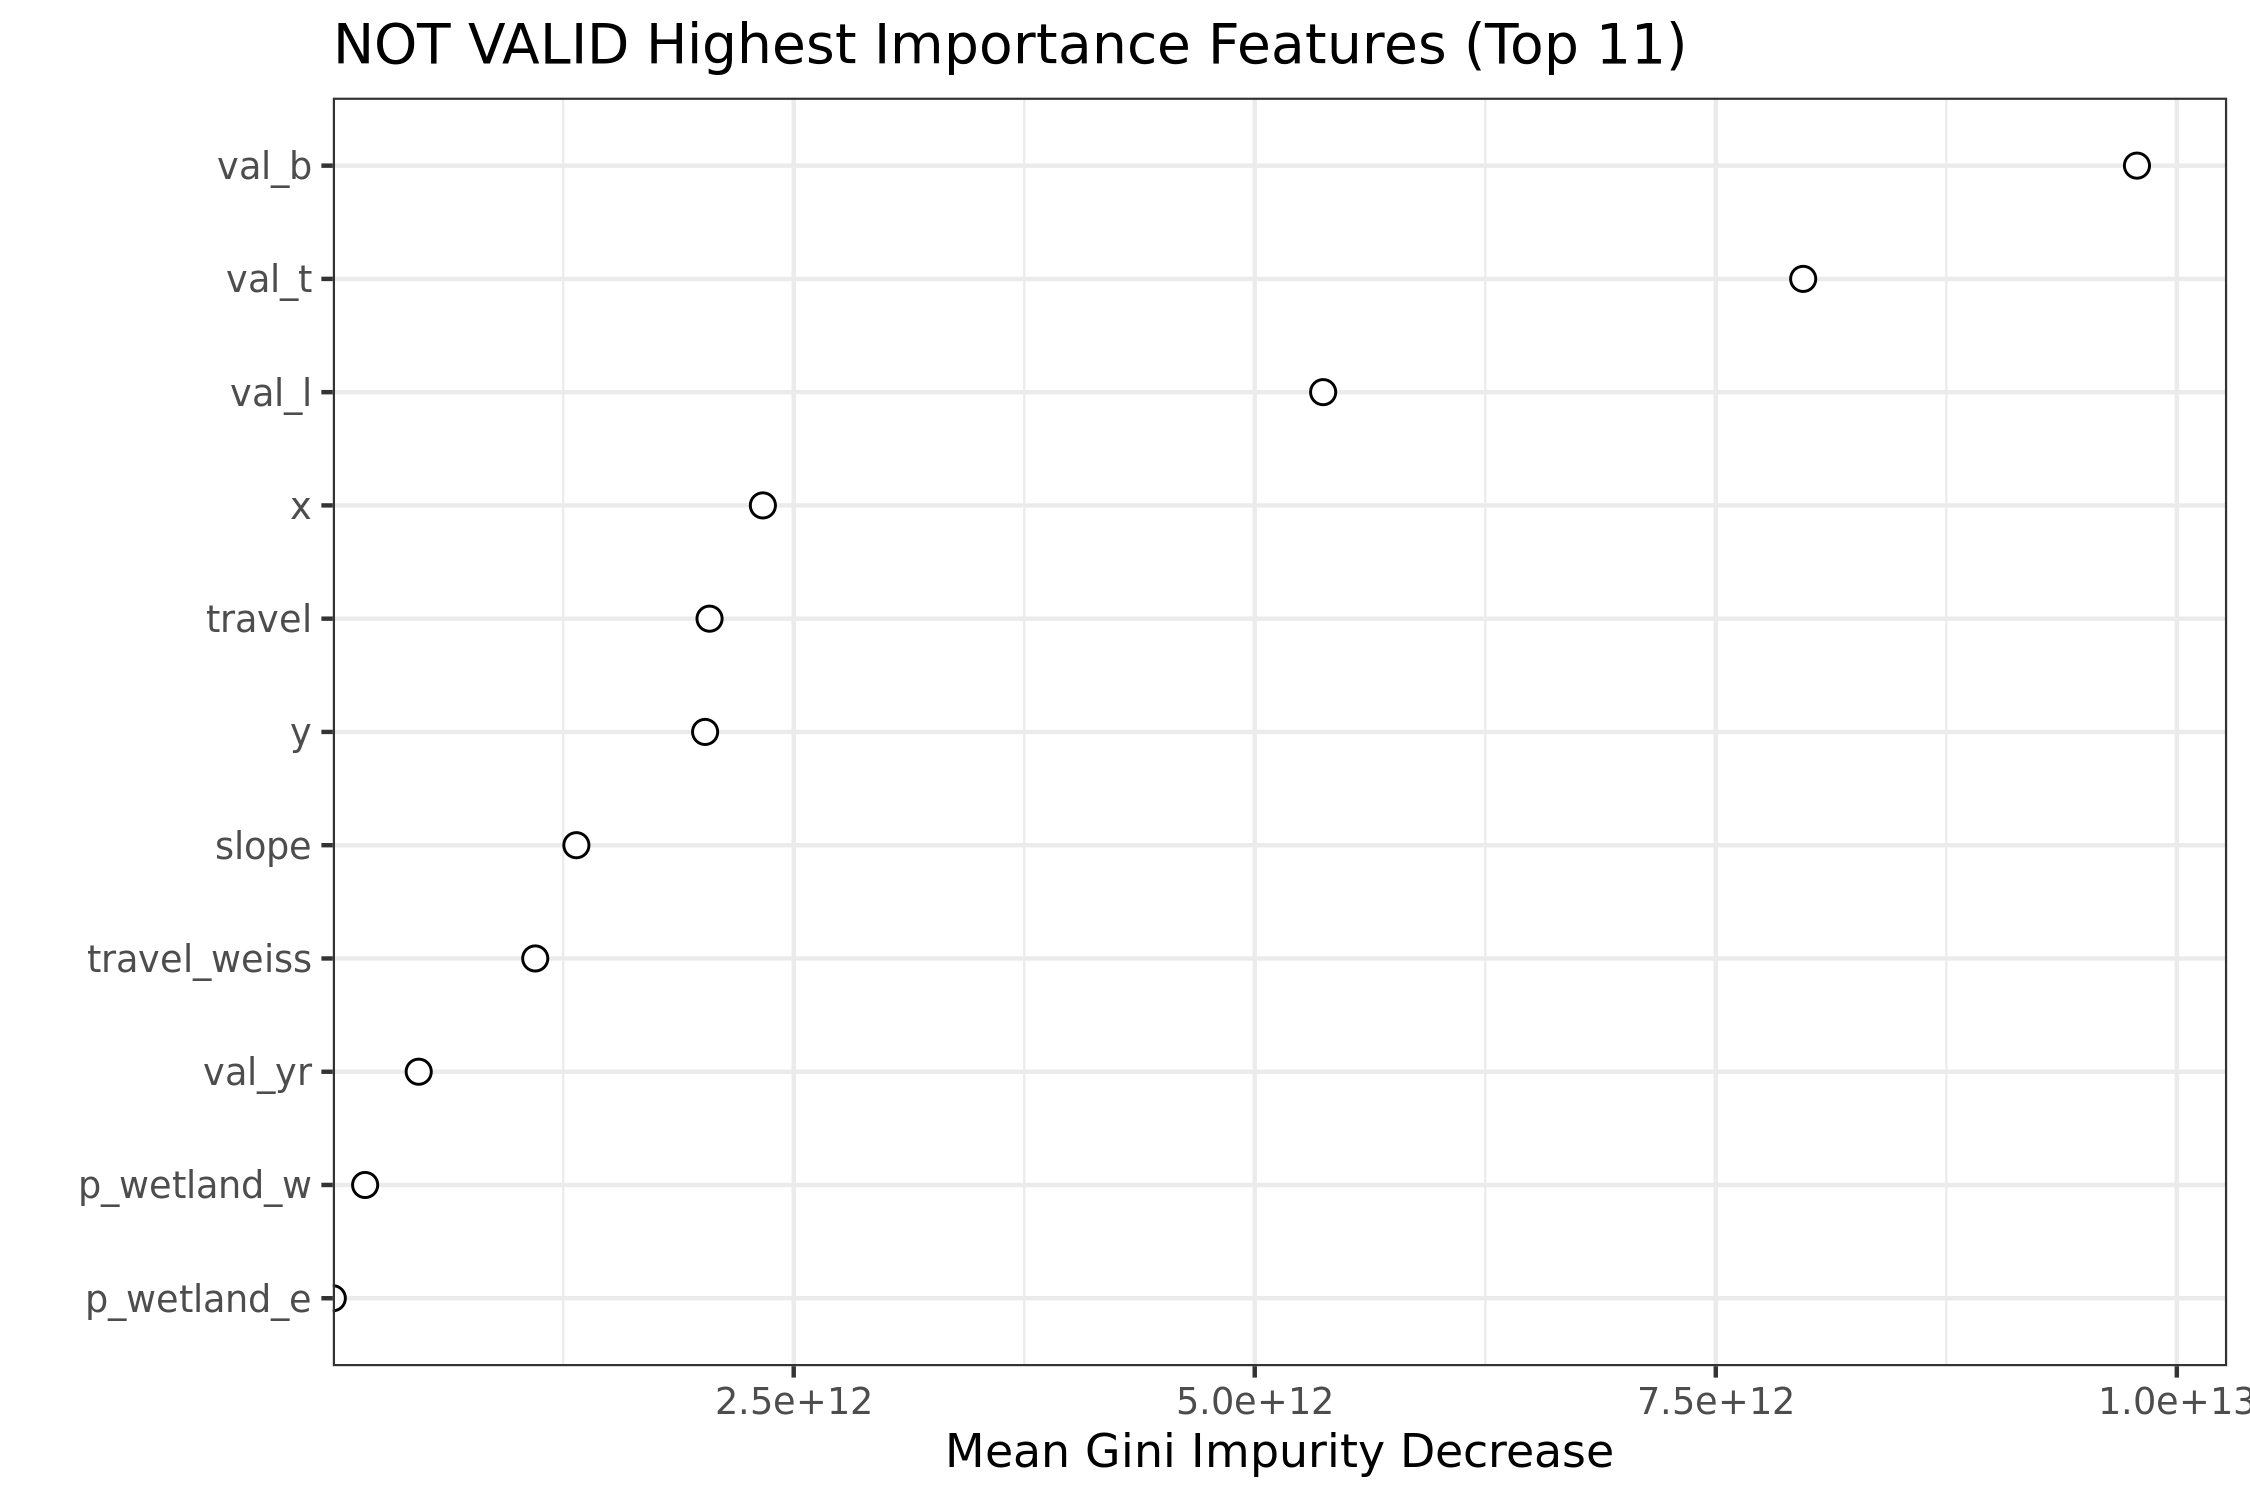
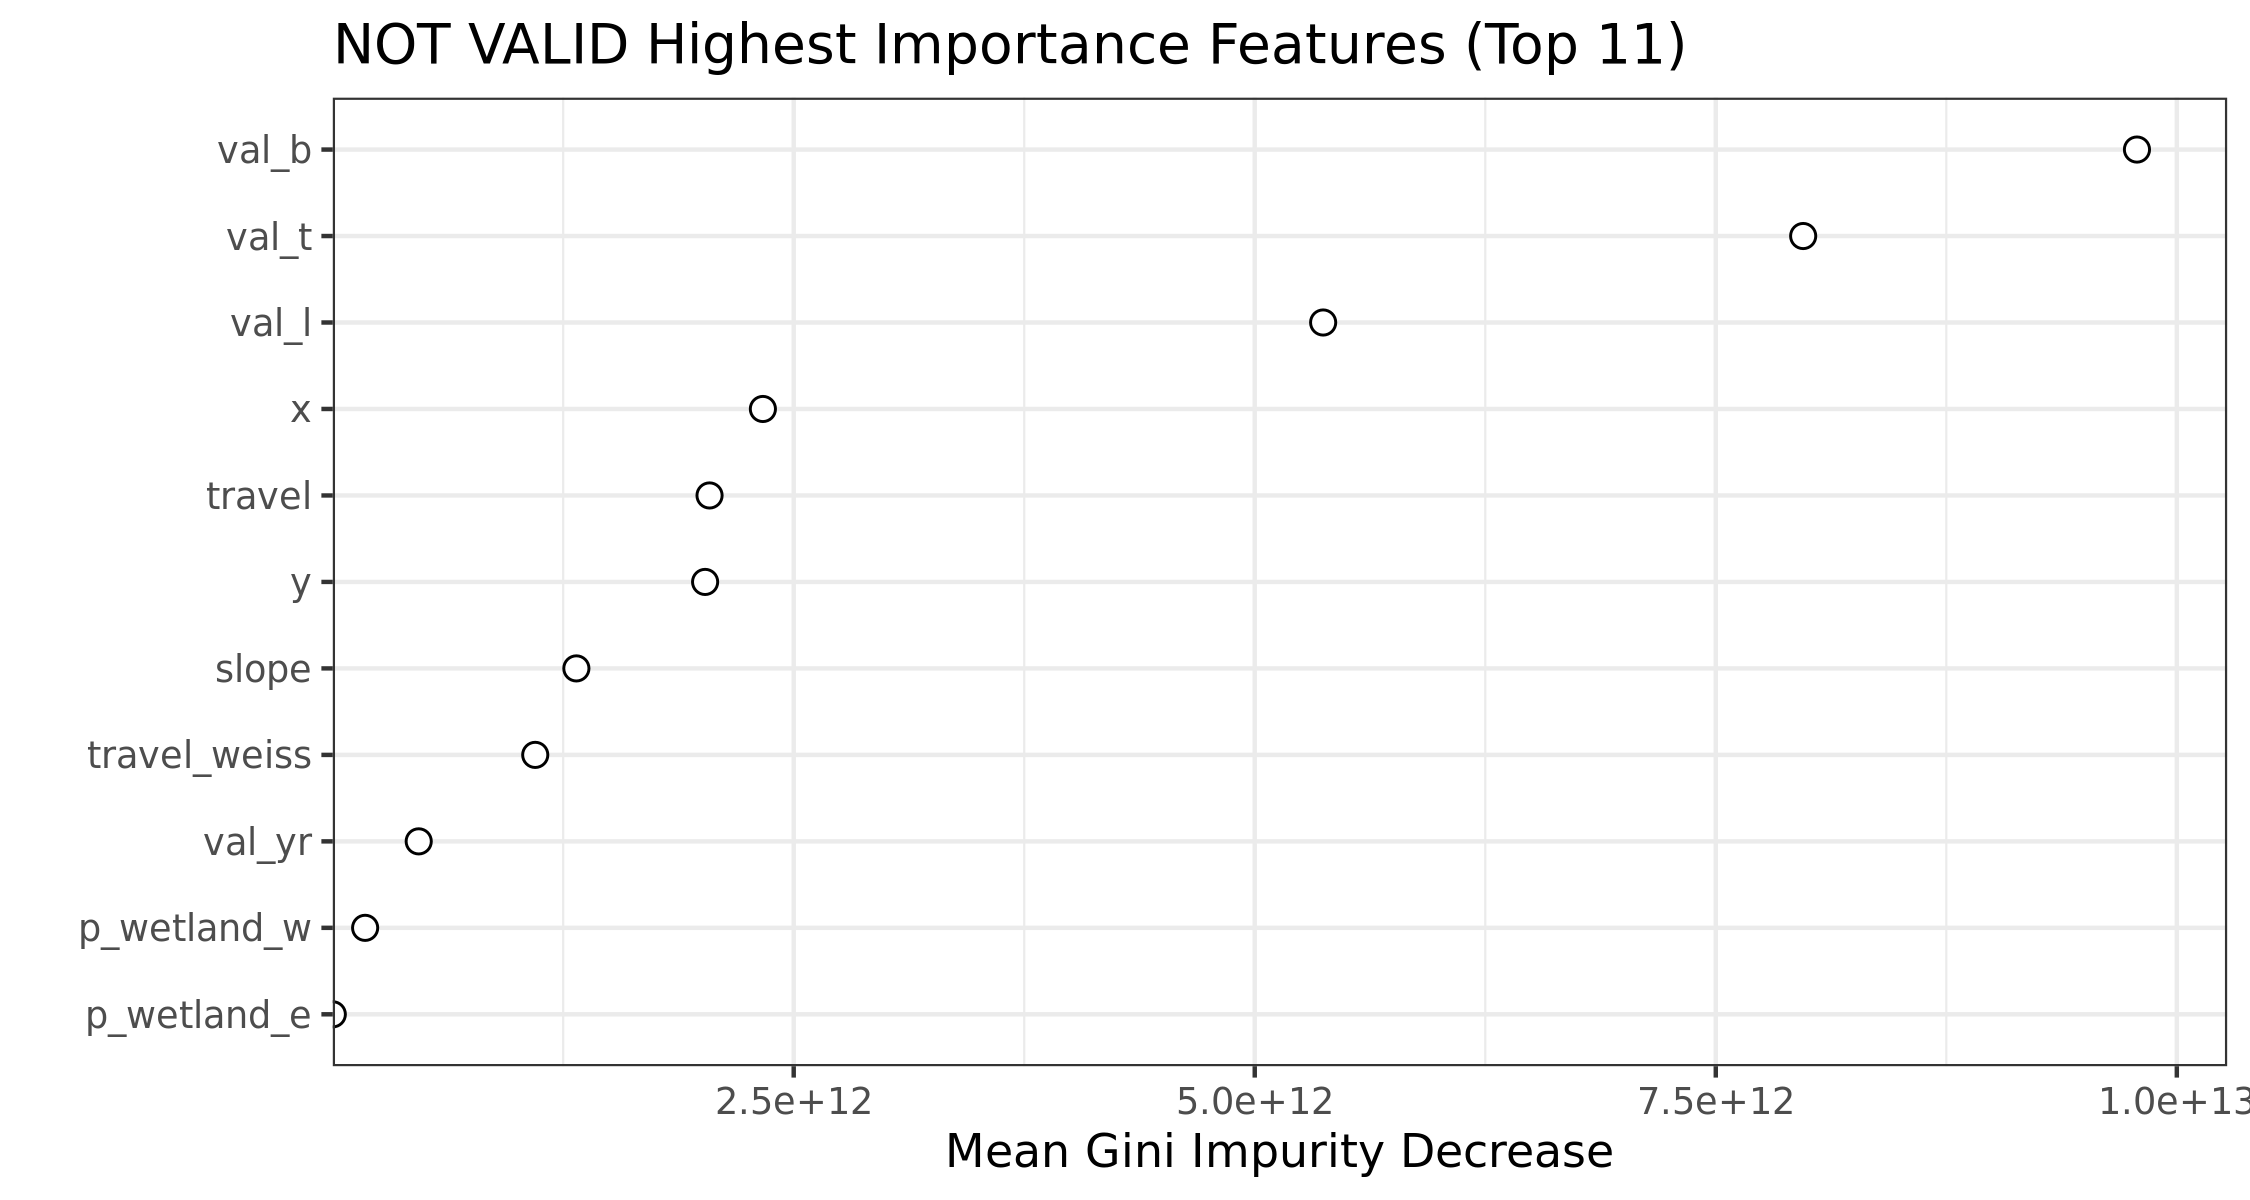
add var imp plot to README

diff --git a/README.md b/README.md
@@ -49,8 +49,11 @@ To fix this problem, I've moved to the [ranger package](https://arxiv.org/pdf/15
 4. Run preliminary ranger random forest model;
 5. Construct hypergrid of parameter options and run grid search;
 6. Run ranger random forest model using optimal parameters found in grid search;
-7. Build variable importance plot
+7. Build variable importance plot (Fig. 1)
 8. Test model (**is this necessary?**)
+
+![Fig. 1: Example Variable Importance Plot](var_imp_plot.png)
+
 
 
 
